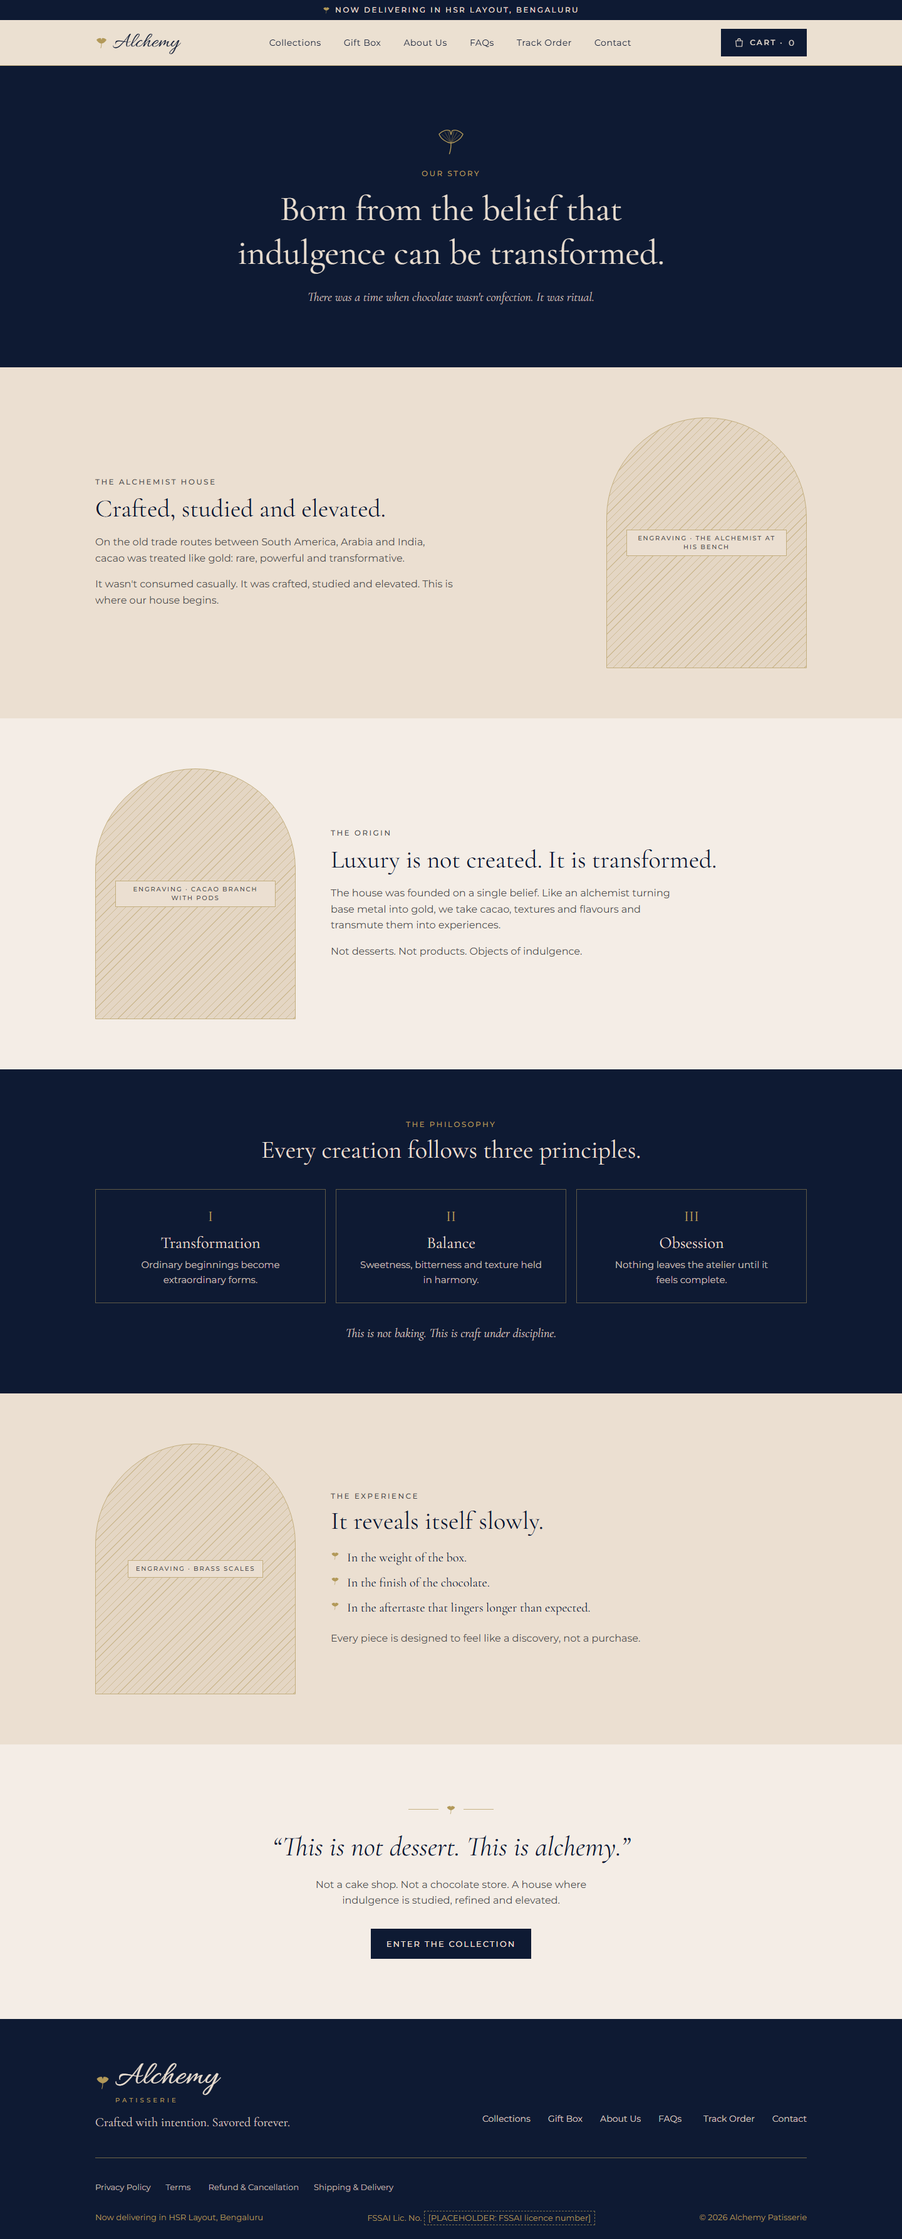
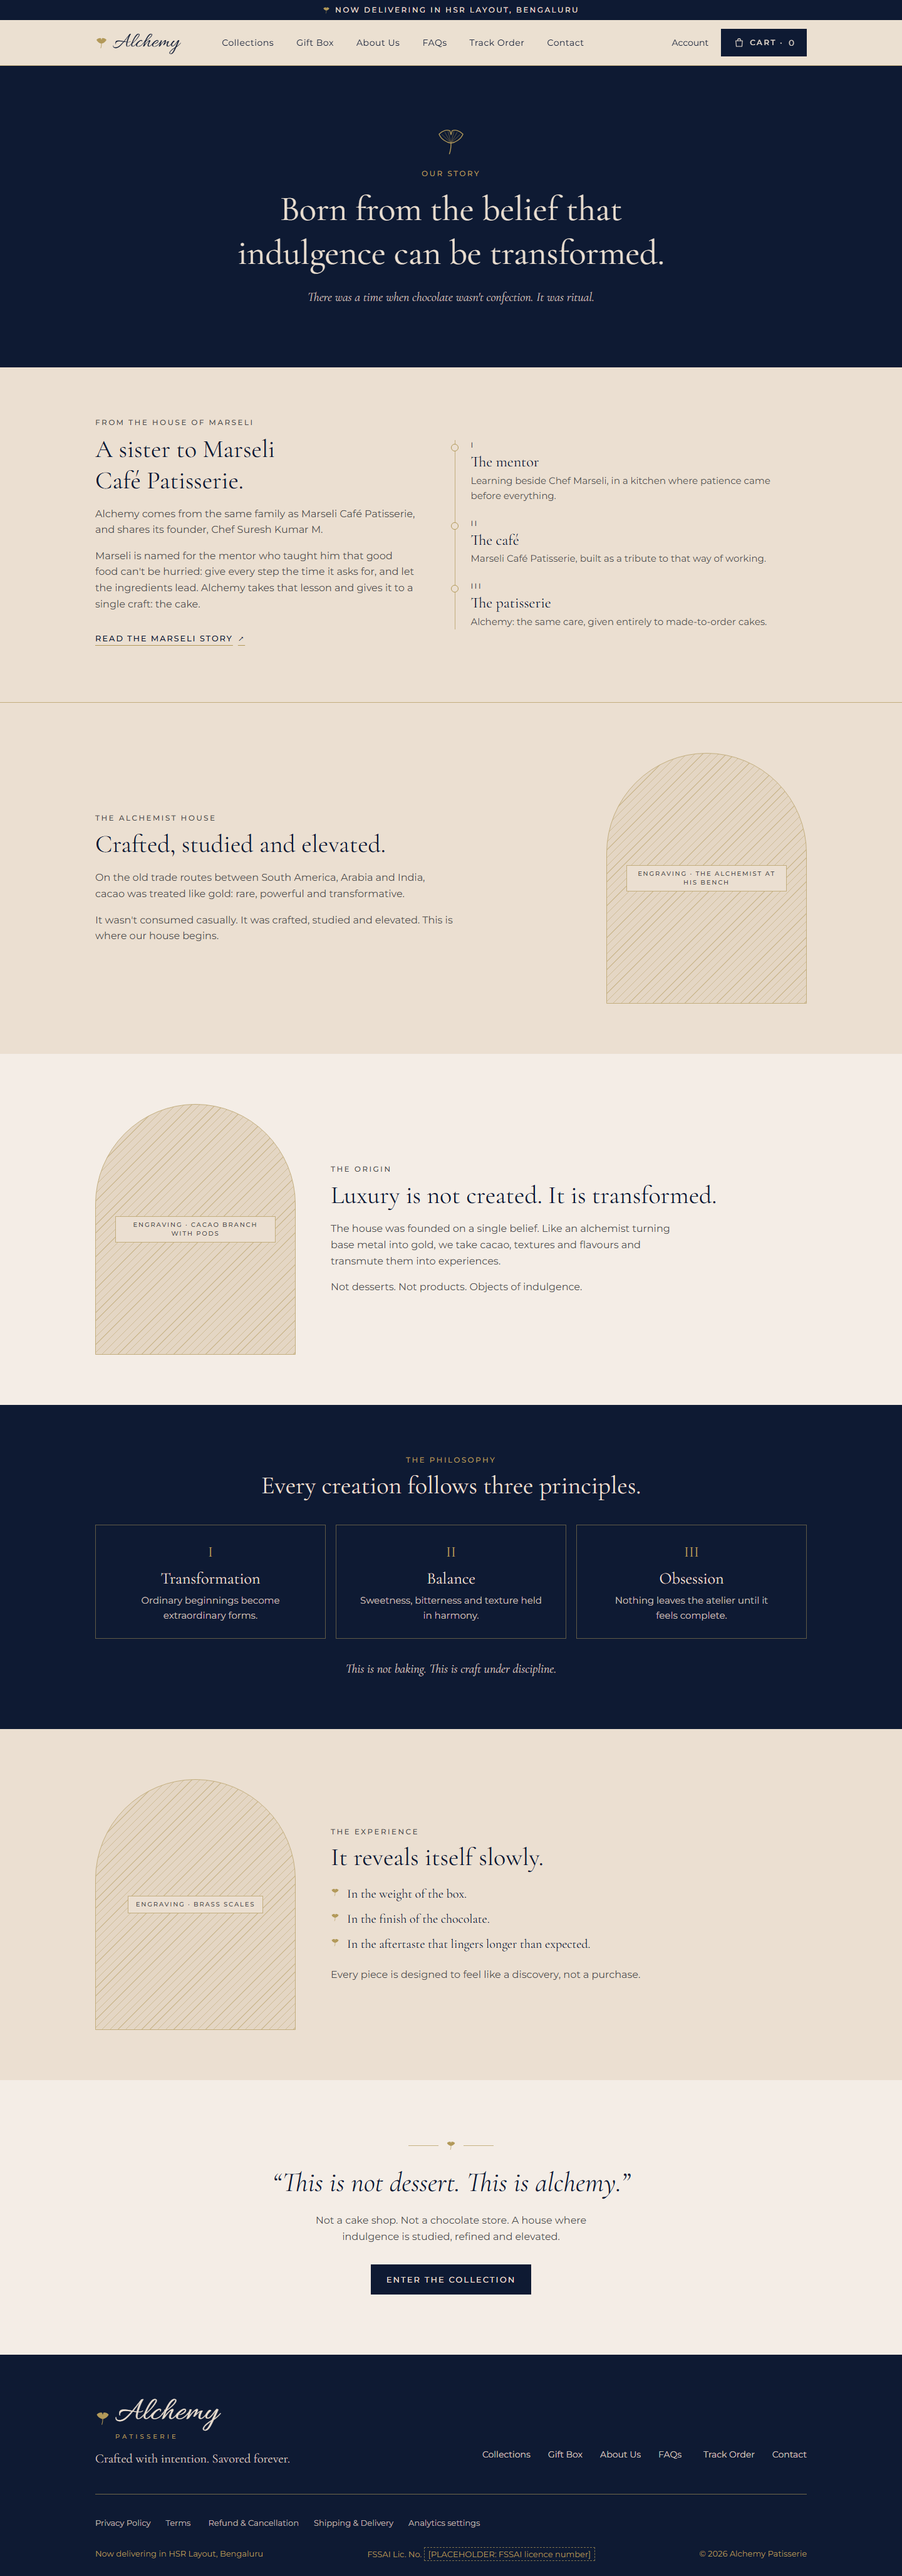
About: add sister-brand section (from the house of Marseli)
Original wording, no ingredient claims. Parent brand name, founder and
story link live in brand.ts (family); set to null to remove the section.

diff --git a/src/app/about/page.tsx b/src/app/about/page.tsx
@@ -1,6 +1,6 @@
 import type { Metadata } from "next";
 import { brand, deliveryAreaLabel } from "@/config/brand";
-import { about } from "@/content/about";
+import { about, family } from "@/content/about";
 import { Artwork } from "@/components/brand/Artwork";
 import { GinkgoMark } from "@/components/brand/GinkgoMark";
 import { GoldRule } from "@/components/brand/GoldRule";
@@ -23,6 +23,46 @@ export default function AboutPage() {
           <p className="mx-auto mt-5 max-w-xl font-display text-[1.25rem] italic text-paper/85">{about.intro}</p>
         </div>
       </section>
+
+      {family ? (
+        <section aria-labelledby="family-title" className="border-b border-line">
+          <div className="container-x py-14 lg:py-20">
+            <div className="grid gap-8 lg:grid-cols-[minmax(0,1fr)_minmax(0,1.1fr)] lg:gap-16">
+              <div>
+                <p className="eyebrow text-body">{family.eyebrow}</p>
+                <h2 id="family-title" className="mt-2 text-[2rem] leading-tight lg:text-[2.5rem]">
+                  {family.title}
+                </h2>
+                <div className="mt-4 max-w-xl space-y-4 text-[1rem] text-body">
+                  {family.body.map((p) => (
+                    <p key={p}>{p}</p>
+                  ))}
+                </div>
+                <a
+                  href={family.link.href}
+                  target="_blank"
+                  rel="noopener"
+                  className="mt-5 inline-flex min-h-11 items-center gap-2 text-[0.8125rem] font-medium tracking-[0.14em] text-ink uppercase underline decoration-accent underline-offset-[6px]"
+                >
+                  {family.link.label}
+                  <span aria-hidden="true">↗</span>
+                  <span className="sr-only">(opens in a new tab)</span>
+                </a>
+              </div>
+              <ol className="relative space-y-6 border-l border-line pl-6 lg:self-center">
+                {family.beats.map((b, i) => (
+                  <li key={b.title} className="relative">
+                    <span aria-hidden="true" className="absolute top-1.5 -left-[1.95rem] size-3 rounded-full border border-accent bg-paper" />
+                    <p className="eyebrow text-body">{["I", "II", "III"][i]}</p>
+                    <h3 className="mt-1 text-[1.5rem]">{b.title}</h3>
+                    <p className="mt-1 text-[0.9375rem] text-body">{b.body}</p>
+                  </li>
+                ))}
+              </ol>
+            </div>
+          </div>
+        </section>
+      ) : null}
 
       {about.sections.map((s, i) => (
         <section key={s.id} aria-labelledby={`${s.id}-title`} className={i % 2 ? "bg-paper-soft" : ""}>

diff --git a/src/content/about.ts b/src/content/about.ts
@@ -4,6 +4,28 @@ import { brand } from "@/config/brand";
  * Brand story, adapted from the client's storyboard ("alchemy story board.pdf").
  * Keep it free of ingredient, sourcing, allergen or health claims.
  */
+/**
+ * Sister-brand lineage (same owner as the brand in config). Original wording:
+ * do not paste text from the sister brand's site, and keep it free of
+ * ingredient claims about either kitchen.
+ */
+export const family = brand.family
+  ? {
+      eyebrow: `From the house of ${brand.family.shortName}`,
+      title: `A sister to ${brand.family.name}.`,
+      body: [
+        `${brand.shortName} comes from the same family as ${brand.family.name}, and shares its founder, ${brand.family.founder}.`,
+        `${brand.family.shortName} is named for the mentor who taught him that good food can't be hurried: give every step the time it asks for, and let the ingredients lead. ${brand.shortName} takes that lesson and gives it to a single craft: the cake.`,
+      ],
+      beats: [
+        { title: "The mentor", body: `Learning beside Chef ${brand.family.shortName}, in a kitchen where patience came before everything.` },
+        { title: "The café", body: `${brand.family.name}, built as a tribute to that way of working.` },
+        { title: "The patisserie", body: `${brand.shortName}: the same care, given entirely to made-to-order cakes.` },
+      ],
+      link: { href: brand.family.storyUrl, label: `Read the ${brand.family.shortName} story` },
+    }
+  : null;
+
 export const about = {
   eyebrow: "Our story",
   title: brand.belief,

diff --git a/src/config/brand.ts b/src/config/brand.ts
@@ -48,6 +48,14 @@ export const brand = {
     body: "#4B4B4B",
   } satisfies BrandColors,
 
+  /** Sister brand (same owner). Shown on About. Set to null to remove the section. */
+  family: {
+    name: "Marseli Café Patisserie",
+    shortName: "Marseli",
+    founder: "Chef Suresh Kumar M",
+    storyUrl: "https://marselicafe.com/story",
+  } as null | { name: string; shortName: string; founder: string; storyUrl: string },
+
   delivery: {
     area: "HSR Layout",
     city: "Bengaluru",
